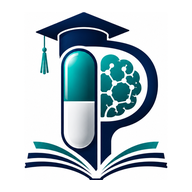
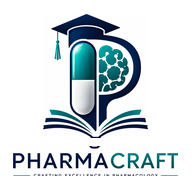
Add files via upload
v95 App icon with PharmaCraft name

diff --git a/sw.js b/sw.js
@@ -1,7 +1,7 @@
 /* PharmaCraft Service Worker
    Cache-first for shell, network-first for HTML.
    Version bumped each deploy to force update. */
-const CACHE_VERSION = 'pharmacraft-v94-pwa-icons-20260815';
+const CACHE_VERSION = 'pharmacraft-v95-icon-with-name-20260815';
 const CORE_ASSETS = [
   '/',
   '/index.html',
